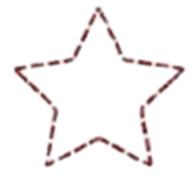
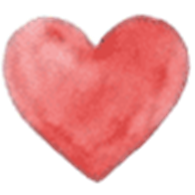
stamp

diff --git a/src/App.tsx b/src/App.tsx
@@ -478,6 +478,26 @@ function LoginScreen({ onClose }: { onClose: () => void }) {
   const [isRegister, setIsRegister] = React.useState(false);
   const [error, setError] = React.useState('');
   const [loading, setLoading] = React.useState(false);
+  const { isPro, user } = usePlan();
+
+  const handleManageSubscription = async () => {
+    const uid = user?.uid;
+    if (!uid) return;
+    try {
+      const res = await fetch(
+        'https://us-central1-colabam-f675c.cloudfunctions.net/createPortalSession',
+        {
+          method: 'POST',
+          headers: { 'Content-Type': 'application/json' },
+          body: JSON.stringify({ uid }),
+        }
+      );
+      const { url } = await res.json();
+      window.open(url, '_blank');
+    } catch {
+      setError('ポータルへの接続に失敗しました');
+    }
+  };
 
   const handleEmail = async () => {
     setError(''); setLoading(true);
@@ -578,6 +598,18 @@ function LoginScreen({ onClose }: { onClose: () => void }) {
         <button onClick={onClose} style={{width:'100%',padding:'8px',background:'none',border:'none',color:'#ccc',fontSize:12,cursor:'pointer',marginTop:4}}>
           キャンセル
         </button>
+
+        {isPro && (
+          <>
+            <div style={{height:1,background:'#eee',margin:'12px 0'}} />
+            <button
+              onClick={handleManageSubscription}
+              style={{width:'100%',padding:'10px',background:'none',border:'1px solid #eee',borderRadius:10,color:'#aaa',fontSize:12,cursor:'pointer'}}
+            >
+              サブスクを管理・解約する
+            </button>
+          </>
+        )}
       </div>
     </div>
   );